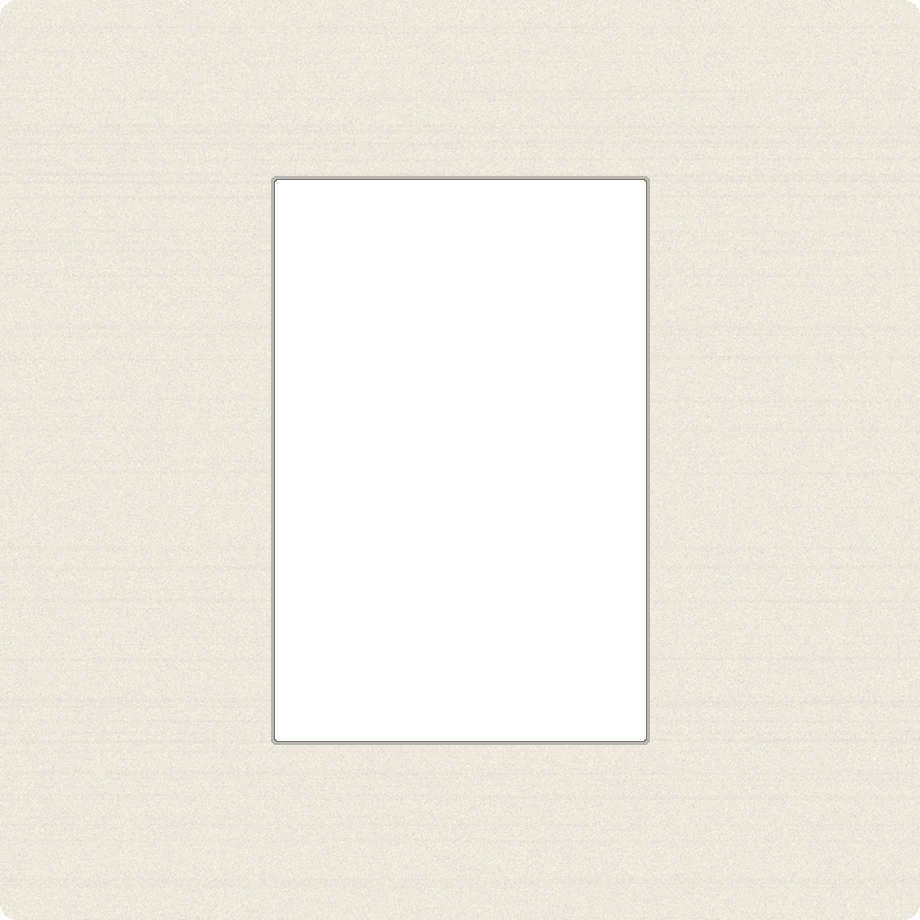
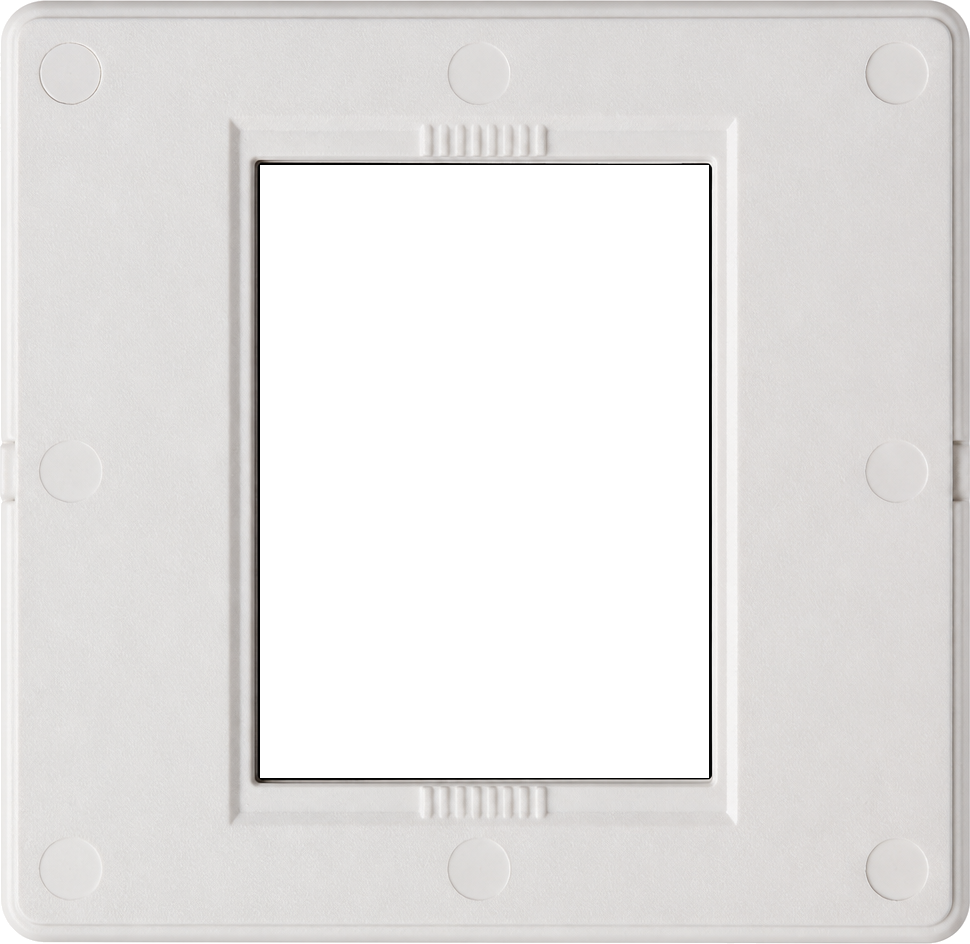
Refine Colors slides to Matin ABS mount details.

diff --git a/style.css b/style.css
@@ -473,31 +473,32 @@ main.main-blank {
   filter: none;
 }
 
-/* 슬라이드 케이스 + 실사 카드보드 마운트 (about.layout = slide) */
+/* Matin식 ABS 슬라이드 마운트 + 케이스 (about.layout = slide) */
 .gallery.gallery-layout-slide {
   --gallery-row-height: auto;
-  --slide-img-h: 168px;
-  --slide-mount-border: 42px;
+  --slide-img-h: 160px;
+  --slide-mount-border: 46px;
   display: flex;
   flex-wrap: wrap;
-  gap: 1.15rem 0.95rem;
+  gap: 1.2rem 1rem;
   width: 100%;
   max-width: 1080px;
   margin: 0.4rem auto 1.75rem;
-  padding: 1.6rem 1.35rem 1.9rem;
+  padding: 1.7rem 1.4rem 2rem;
   justify-content: center;
   align-content: flex-start;
   box-sizing: border-box;
-  border-radius: 6px;
-  background-color: #6e7378;
+  border-radius: 7px;
+  background-color: #5f6469;
   background-image:
-    linear-gradient(180deg, rgba(255, 255, 255, 0.1), rgba(0, 0, 0, 0.18)),
+    linear-gradient(180deg, rgba(255, 255, 255, 0.12), rgba(0, 0, 0, 0.22)),
     url("assets/slide-case.jpg");
   background-size: cover;
   background-position: center;
   box-shadow:
-    inset 0 1px 0 rgba(255, 255, 255, 0.22),
-    inset 0 -10px 28px rgba(0, 0, 0, 0.28),
+    inset 0 1px 0 rgba(255, 255, 255, 0.25),
+    inset 0 0 0 1px rgba(0, 0, 0, 0.2),
+    inset 0 -12px 30px rgba(0, 0, 0, 0.3),
     0 18px 40px rgba(0, 0, 0, 0.16);
 }
 
@@ -515,45 +516,49 @@ main.main-blank {
 .gallery.gallery-layout-slide .slide-mount-shadow {
   display: inline-block;
   line-height: 0;
-  filter: drop-shadow(0 1px 1px rgba(0, 0, 0, 0.35)) drop-shadow(0 10px 18px rgba(0, 0, 0, 0.28));
+  filter: drop-shadow(0 1px 1px rgba(0, 0, 0, 0.4)) drop-shadow(0 9px 16px rgba(0, 0, 0, 0.32));
   transform: rotate(var(--slide-tilt, 0deg));
   transform-origin: 50% 60%;
 }
 
 .gallery.gallery-layout-slide .gallery-item:nth-child(5n + 1) {
-  --slide-tilt: -0.55deg;
+  --slide-tilt: -0.5deg;
 }
 .gallery.gallery-layout-slide .gallery-item:nth-child(5n + 2) {
-  --slide-tilt: 0.4deg;
+  --slide-tilt: 0.35deg;
 }
 .gallery.gallery-layout-slide .gallery-item:nth-child(5n + 3) {
-  --slide-tilt: -0.25deg;
+  --slide-tilt: -0.2deg;
 }
 .gallery.gallery-layout-slide .gallery-item:nth-child(5n + 4) {
-  --slide-tilt: 0.65deg;
+  --slide-tilt: 0.55deg;
 }
 .gallery.gallery-layout-slide .gallery-item:nth-child(5n + 5) {
-  --slide-tilt: -0.15deg;
+  --slide-tilt: -0.12deg;
 }
 
+/* 실사 Matin ABS 마운트 (이젝터 핀·홈·클램프 디테일) */
 .gallery.gallery-layout-slide .slide-mount-frame {
   display: inline-block;
   line-height: 0;
   box-sizing: border-box;
-  padding: 2.15rem 2rem 2.35rem;
-  border-radius: 0.35rem;
-  background-color: #ebe6da;
-  background-image: url("assets/slide-cardboard.jpg");
-  background-size: 140px 140px;
-  background-repeat: repeat;
-  box-shadow:
-    inset 0 1px 0 rgba(255, 255, 255, 0.5),
-    inset 0 -1px 0 rgba(70, 60, 40, 0.14),
-    inset 0 0 0 1px rgba(90, 78, 55, 0.2);
+  padding: 0;
+  border-style: solid;
+  border-color: transparent;
+  border-width: var(--slide-mount-border);
+  border-image-source: url("assets/slide-mount-landscape.png");
+  border-image-slice: 26.8% 17.5% 26.9% 17.6% fill;
+  border-image-width: var(--slide-mount-border);
+  border-image-repeat: stretch;
+  background: url("assets/slide-plastic.jpg") center / 120px 120px repeat;
+  border-radius: 0;
+  box-shadow: none;
 }
 
 .gallery.gallery-layout-slide .gallery-item.portrait .slide-mount-frame {
-  padding: 2rem 2.15rem 2.2rem;
+  border-image-source: url("assets/slide-mount-portrait.png");
+  border-image-slice: 17.6% 26.8% 17.5% 26.9% fill;
+  padding: 0;
 }
 
 .gallery.gallery-layout-slide .slide-mount-window {
@@ -561,15 +566,14 @@ main.main-blank {
   line-height: 0;
   background: #050505;
   box-shadow:
-    inset 0 0 0 1px rgba(20, 16, 10, 0.85),
-    inset 0 3px 7px rgba(0, 0, 0, 0.45),
-    0 0 0 1px rgba(255, 255, 255, 0.12);
+    inset 0 0 0 1px rgba(0, 0, 0, 0.65),
+    inset 0 2px 6px rgba(0, 0, 0, 0.4);
 }
 
 .gallery.gallery-layout-slide .slide-mount-frame img {
   height: var(--slide-img-h);
   width: auto;
-  max-width: min(58vw, 340px);
+  max-width: min(56vw, 320px);
   display: block;
   object-fit: contain;
   background: #0a0a0a;
@@ -581,7 +585,7 @@ main.main-blank {
 }
 
 .gallery.gallery-layout-slide .gallery-item:hover .slide-mount-shadow {
-  filter: drop-shadow(0 1px 1px rgba(0, 0, 0, 0.4)) drop-shadow(0 14px 22px rgba(0, 0, 0, 0.34));
+  filter: drop-shadow(0 1px 1px rgba(0, 0, 0, 0.45)) drop-shadow(0 12px 20px rgba(0, 0, 0, 0.38));
 }
 
 .gallery.gallery-layout-slide > .collection-about-after-first {
@@ -590,7 +594,7 @@ main.main-blank {
   max-width: 720px;
   margin-left: auto;
   margin-right: auto;
-  background: rgba(255, 255, 255, 0.88);
+  background: rgba(255, 255, 255, 0.9);
   border-radius: 2px;
   padding: 0.35rem 0.5rem;
   box-sizing: border-box;
@@ -1103,7 +1107,10 @@ main.main-blank {
   }
 
   .gallery.gallery-layout-slide .slide-mount-frame {
-    padding: 1.35rem 1.25rem 1.5rem;
+    padding: 0;
+    --slide-mount-border: 32px;
+    border-width: 32px;
+    border-image-width: 32px;
   }
 
   .gallery.gallery-layout-slide .slide-mount-frame img {

diff --git a/collection.html b/collection.html
@@ -26,7 +26,7 @@
     <link rel="preconnect" href="https://fonts.googleapis.com" />
     <link rel="preconnect" href="https://fonts.gstatic.com" crossorigin />
     <link href="https://fonts.googleapis.com/css2?family=Crimson+Text:ital,wght@0,400;0,600;1,400&display=swap" rel="stylesheet" />
-    <link rel="stylesheet" href="style.css?v=20260815slidecase3" />
+    <link rel="stylesheet" href="style.css?v=20260815matin" />
   </head>
   <body class="collection-page">
     <header class="site-header">
